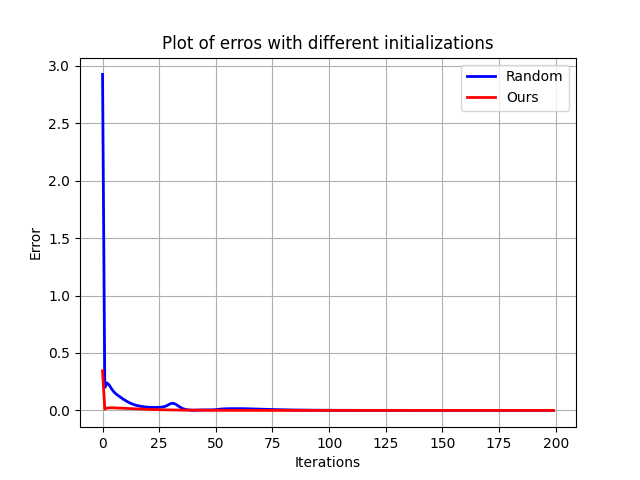
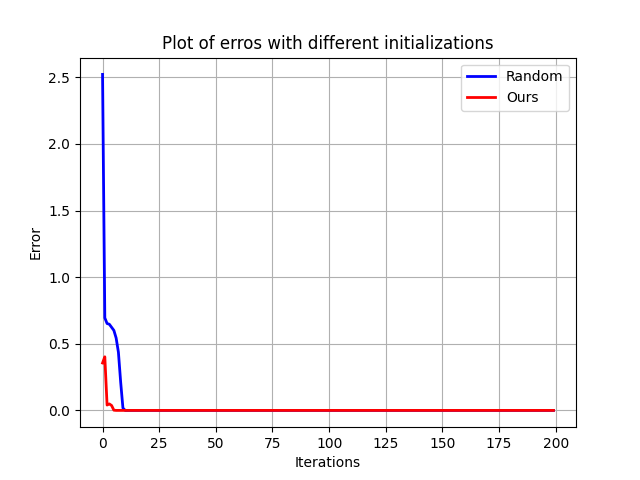
update data

diff --git a/hw3/q2.py b/hw3/q2.py
@@ -8,16 +8,18 @@ import matplotlib.pyplot as plt
 n = 500
 
 # True parameters for two Gaussians
-pi_true = 0.6
-mu1_true = np.array([1, 1])
-mu2_true = np.array([3, 3])
-cov1_true = np.array([[2, 0.1], [0.1, 2]])
-cov2_true = np.array([[1, 0.5], [0.5, 1]])
+# pi_true = 0.6
+# mu1_true = np.array([1, 1])
+# mu2_true = np.array([3, 3])
+# cov1_true = np.array([[2, 0.1], [0.1, 2]])
+# cov2_true = np.array([[1, 0.5], [0.5, 1]])
 
-# Generate samples
-y1 = np.random.multivariate_normal(mu1_true, cov1_true, size=int(pi_true * n))
-y2 = np.random.multivariate_normal(mu2_true, cov2_true, size=int((1 - pi_true) * n))
-data = np.vstack((y1, y2))
+# # Generate samples
+# y1 = np.random.multivariate_normal(mu1_true, cov1_true, size=int(pi_true * n))
+# y2 = np.random.multivariate_normal(mu2_true, cov2_true, size=int((1 - pi_true) * n))
+# data = np.vstack((y1, y2))
+
+data = np.loadtxt('data.txt')
 
 # Helper functions for E-step and M-step
 def e_step(data, pi, mu1, cov1, mu2, cov2):
@@ -79,8 +81,8 @@ def EM_algorithm(data, method, max_iter=200, tol=1e-6):
         mu1 = centers[0,:]
         mu2 = centers[1,:]
         
-        cov1 = np.cov(data[:250].T)
-        cov2 = np.cov(data[250:].T)
+        cov1 = np.cov(data[:100].T)
+        cov2 = np.cov(data[100:].T)
     
     # random initialization
     if method == 'random':
